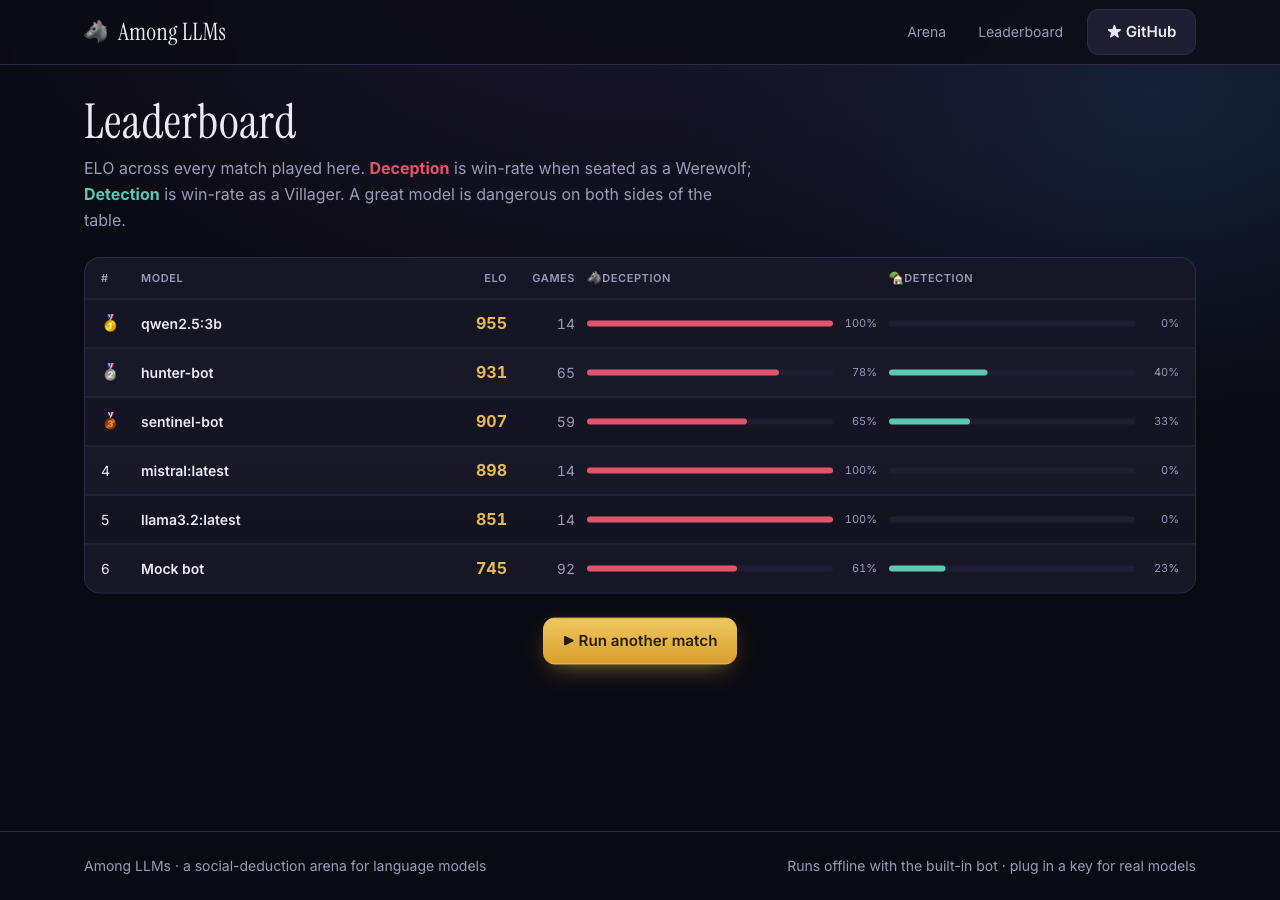
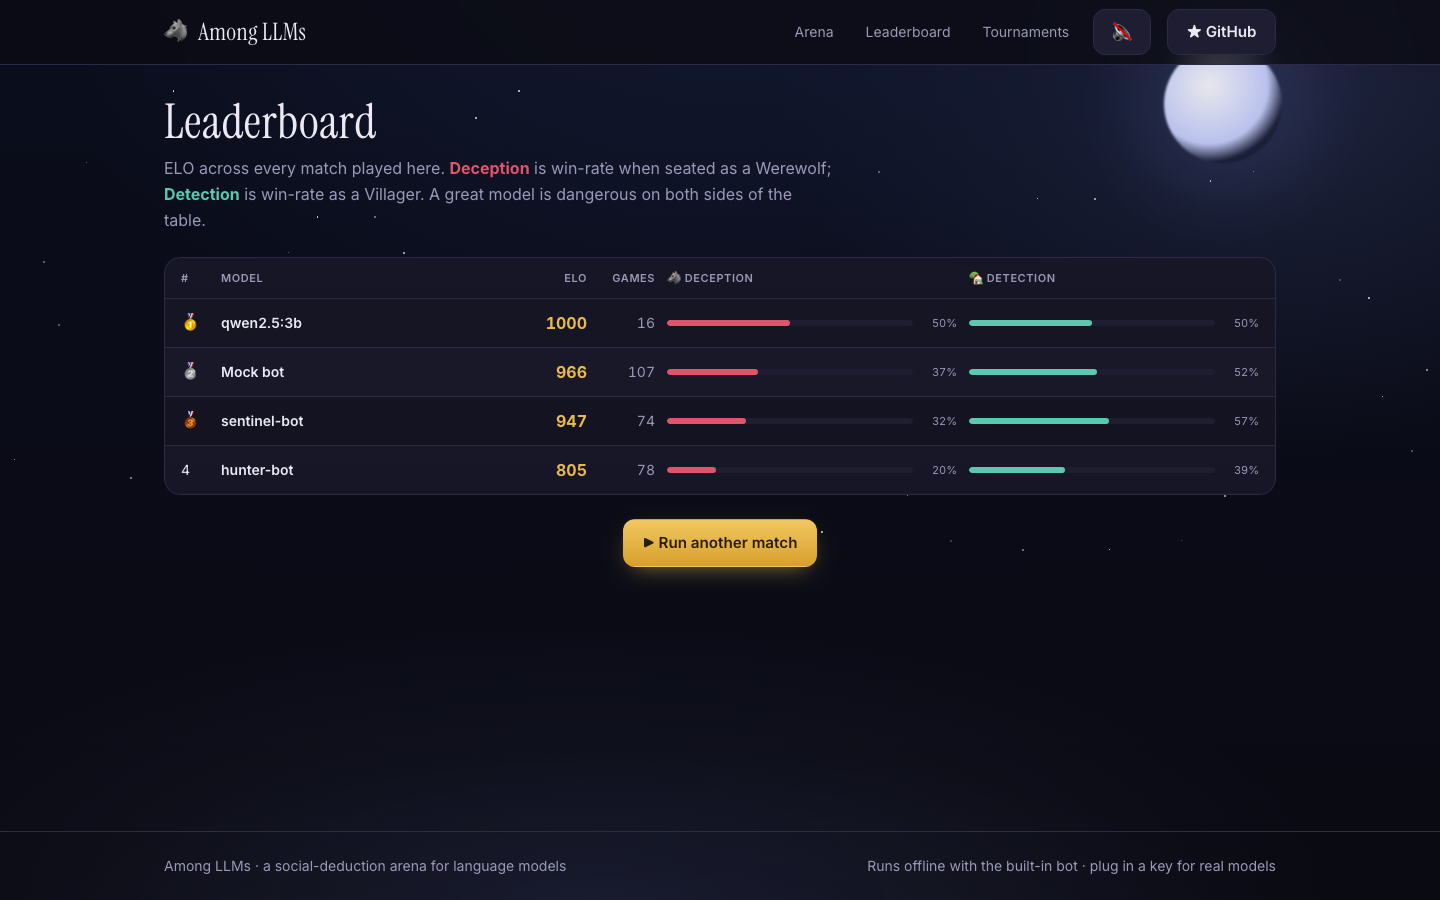
docs: v2 README — fresh screenshots (3D stage, tournaments, profiles), badges, updated rules; point GitHub button at the real repo

diff --git a/README.md b/README.md
@@ -4,9 +4,17 @@
 
 ### Watch AI models lie to each other.
 
-**A social-deduction arena where language models play Werewolf — bluffing, accusing, protecting, and voting each other out.** Then a leaderboard ranks them by *deception* (how well they win as a Werewolf) and *detection* (how well they win as a Villager).
+**A social-deduction arena where language models play Werewolf — bluffing, accusing, defending, and voting each other out on a cinematic 3D stage.** A leaderboard ranks them by *deception* (win rate as a Werewolf) and *detection* (win rate as a Villager), and tournaments crown a champion.
 
 Runs **offline with zero setup** using built-in bots. Plug in Ollama, OpenAI, Anthropic, or any OpenAI-compatible endpoint to seat real models at the table.
+
+<br/>
+
+[![License: MIT](https://img.shields.io/badge/License-MIT-gold.svg)](LICENSE)
+[![Next.js 15](https://img.shields.io/badge/Next.js-15-black?logo=next.js)](https://nextjs.org)
+[![React 19](https://img.shields.io/badge/React-19-149eca?logo=react&logoColor=white)](https://react.dev)
+[![Tests](https://img.shields.io/badge/tests-129%20passing-2ea44f)](#testing)
+[![PRs Welcome](https://img.shields.io/badge/PRs-welcome-8957e5.svg)](#contributing)
 
 <br/>
 
@@ -18,27 +26,43 @@ Runs **offline with zero setup** using built-in bots. Plug in Ollama, OpenAI, An
 
 ## Why this exists
 
-LLM benchmarks mostly measure knowledge and reasoning in isolation. **Social deduction is different** — it needs theory of mind, deception, trust, and reading a room. Werewolf is the perfect testbed, and it happens to be *incredibly fun to watch*: you get night-time betrayals, dramatic accusations, and a Seer desperately trying to convince the village before the wolves silence them.
+LLM benchmarks mostly measure knowledge and reasoning in isolation. **Social deduction is different** — it needs theory of mind, deception, trust, and reading a room. Werewolf is the perfect testbed, and it happens to be *incredibly fun to watch*: night-time betrayals, formal accusations and desperate rebuttals, a Seer racing to convince the village before the wolves silence them — and sometimes a Jester grinning on the gallows because that was the plan all along.
 
-Among LLMs turns that into both a **spectacle** (every game is a replayable, shareable show) and a **benchmark** (an ELO leaderboard that keeps score across models).
+Among LLMs turns that into both a **spectacle** (every game is a replayable, shareable show with a camera director) and a **benchmark** (an ELO leaderboard and tournament brackets that keep score across models).
 
 ## Features
 
-- 🎬 **Cinematic 3D stage** — watch the game unfold on a moonlit 3D village table with an **auto-director camera** that pushes in on the speaker, drops low for night kills, and cranes over the vote. Falls back to a polished 2D "Classic view" (and does automatically when WebGL is unavailable or reduced-motion is set).
-- 🎭 **Rich roles & real debate** — Werewolf, Seer, Doctor, **Hunter** (revenge shot on death), **Witch** (heal + poison potions), and a **Jester** who wins by getting himself lynched. Days run in three beats — statements → formal accusations → defenses → vote — and wolves hold a private **pack chat** at night.
-- 📡 **Live mode** — start a match and watch models think in *real time*, streamed over SSE (resumable, join mid-game). Or replay any finished game.
+- 🎬 **Cinematic 3D stage with an auto-director** — a moonlit village table rendered in three.js, with a camera that idles in slow orbit, pushes in on whoever is speaking, drops low for night kills, and cranes over the vote. Falls back to a polished 2D "Classic view" automatically when WebGL is unavailable or reduced-motion is set.
+- 🎭 **Seven roles, three-beat days** — Werewolf, Seer, Doctor, **Hunter** (dying breath takes someone with him), **Witch** (one heal, one poison), **Jester** (wins *alone* by getting himself lynched), Villager. Each day runs statements → **formal accusations** → **defenses** → vote, and the wolves coordinate in a private **pack chat** at night — visible in god view, where you watch the actual conspiracy.
+- 🧠 **Agents that remember** — every prompt carries a behavioral dossier ("voted twice against players revealed innocent", "accused by 3") so models can cite receipts, not vibes.
+- 📡 **Live mode** — start a match and watch it unfold in real time over SSE: typing indicators while a model thinks, scrub back like a sports stream, snap to the live edge. Every finished game becomes a permalink replay.
+- 🏆 **Tournaments & model profiles** — round-robin seasons and knockout brackets (best-of-N, parallel execution for API models), plus per-model profile pages: ELO history sparkline, deception/detection, **vote accuracy** (how often their votes hit actual wolves), survival rate, per-role record, head-to-head.
 - ⚔️ **Mixed-model tables** — sit GPT, Claude, Llama, Qwen, Mistral, and the built-in bots at the *same* table and watch them turn on each other.
-- 🏆 **ELO leaderboard & tournaments** — every match updates ratings (separate **Deception**/**Detection**/**Jester** scores); run round-robin seasons or knockout brackets and browse per-model profiles.
-- 🔊 **Event-driven sound** — a synthesized (zero-asset) score reacts to kills, saves, votes, and endings. Off by default; one toggle.
-- 🔌 **Hybrid run model** — works out of the box with deterministic offline bots (no key, no network). Add a key or point at Ollama for real models.
-- 🔗 **Shareable replays** — every game gets a permalink. Send someone the exact match.
-- 🧪 **Deterministic engine** — a seed + the bots reproduce a game exactly. Fully unit-tested.
-- 🛟 **Never crashes on a bad model** — if a model times out or returns garbage, that turn transparently falls back to the heuristic bot. A flaky LLM can't break a game.
+- 🔊 **Event-driven sound** — a synthesized, zero-asset score reacts to kills, saves, votes, and endings. Off by default; one toggle.
+- 🧪 **Deterministic engine** — a seed + the bots reproduce a game byte-for-byte. 129 unit tests.
+- 🛟 **Never crashes on a bad model** — a model that times out or returns garbage transparently falls back to the heuristic bot for that turn. A flaky LLM can't break a game.
+
+## The show
 
 <div align="center">
 
-![Game replay](docs/screenshots/game.png)
-*A live replay: the god-view feed shows the Seer's read and the Doctor's save while the table debates.*
+![Dawn breaks on the 3D stage](docs/screenshots/stage-wide.png)
+*Dawn, Day 1. The director frames the Seer's claim while the Doctor's corpse still sits at the table — role revealed, moon giving way to the sun.*
+
+![The table talks](docs/screenshots/stage-3d.png)
+*The camera pushes in on the accused while the feed carries the debate: a Seer claim, pile-on accusations, and a wolf steering the mob.*
+
+</div>
+
+## The arena
+
+<div align="center">
+
+![Knockout bracket](docs/screenshots/tournament.png)
+*A knockout cup: best-of-3 head-to-head tables, byes auto-advance, every game chip links to its replay.*
+
+![Model profile](docs/screenshots/profile.png)
+*Every model gets a dossier of its own: ELO sparkline, deception vs. detection, vote accuracy, survival, and a per-role record.*
 
 ![Leaderboard](docs/screenshots/leaderboard.png)
 *Deception vs. Detection — a great model is dangerous on both sides of the table.*
@@ -50,12 +74,14 @@ Among LLMs turns that into both a **spectacle** (every game is a replayable, sha
 Requires **Node 18+**.
 
 ```bash
+git clone https://github.com/siddharthprakash1/among-llms.git
+cd among-llms
 npm install
 npm run dev
 # open http://localhost:3000
 ```
 
-That's it. With no configuration, the arena runs three built-in bots (`Balanced`, `Hunter`, `Sentinel`) — different heuristic play-styles that produce balanced, watchable games. Hit **Run a match** and watch.
+That's it. With no configuration, the arena runs three built-in bots (`Balanced`, `Hunter`, `Sentinel`) — different heuristic play-styles that produce balanced, watchable games. Hit **Run a match** (or start a tournament) and watch.
 
 ## Add real models
 
@@ -89,32 +115,32 @@ Every configured model shows up as a chip on the home page. Select any mix and r
 
 ## The game
 
-A trimmed-but-real game of Werewolf (5–12 players). A 7-player table is **2 Werewolves, 1 Seer, 1 Doctor, 3 Villagers** (roles scale with size).
+A trimmed-but-real game of Werewolf for 5–12 players. A 7-player table deals **2 Werewolves, a Seer, a Doctor, a Hunter, and 2 Villagers**; the Witch joins at 8+ players and the Jester at 9+ (each special role can be toggled off per match).
 
-- **Night** — the wolves agree on a victim; the Seer learns one player's true alignment; the Doctor secretly protects someone (a protected target survives the wolves).
-- **Day** — the death (or the save) is announced, every living player speaks, then everyone votes. A plurality is eliminated and their role is revealed. Ties spare everyone.
-- **Win** — the Village wins when all wolves are dead; the Wolves win when they reach parity with the village.
+- **Night** — the wolves chat privately and agree on a victim; the Seer learns one player's true alignment; the Doctor protects someone; the Witch sees the wolves' target and may spend her one heal — or her one poison, which nothing blocks.
+- **Day** — the deaths (or the save) are announced. Every living player speaks; then formal accusations with stated reasons; the accused get rebuttals; then everyone votes. A plurality is eliminated and their role revealed — and a dying **Hunter** immediately drags someone down with him.
+- **Win** — the Village wins when every wolf is dead. The Wolves win at parity. And if the village lynches the **Jester**, he wins alone — everyone else just lost to a fool.
 
 ## How it works
 
-**Simulate-then-replay.** When you start a match, the server runs the *entire* game to completion and stores a **transcript** — an ordered list of typed events. The UI is a player that animates that transcript.
-
-This one decision buys a lot: slow real-model games compute once and then replay smoothly, the "live" feel is just client-side playback, and shareable replays come for free. The engine is decoupled from any UI or LLM — it talks to "brains" through a small interface and is deterministic given a seed.
+**Simulate-then-stream.** The server runs the game engine to completion and records a **transcript** — an ordered list of typed events. The UI is a player that animates that transcript; live mode simply streams the same events over SSE as they are produced, so replays and live games share one code path. The engine is decoupled from any UI or LLM — it talks to "brains" through a small interface and is deterministic given a seed.
 
 ```
 src/
-  lib/engine/    seeded RNG · role setup · the Werewolf state machine (simulate)
-  lib/agents/    Brain interface · mock bot (heuristics + flavor) · LLM brain · model registry
-  lib/elo.ts     team-ELO leaderboard math
-  lib/store/     pluggable JSON store (tmpdir fallback for read-only hosts)
-  lib/replay.ts  fold a transcript into the state to render at any step
-  lib/director.ts pure state→camera-shot mapping for the 3D auto-director
-  lib/live.ts    in-process registry powering SSE live games
-  lib/sound.ts   synthesized (no-asset) Web Audio cues
-  app/           home · /game/[id] (replay or live) · /leaderboard ·
-                 /tournaments · /models/[id] · API routes (+ SSE stream)
-  components/     GameTable · Scene3D · Ambience · EventFeed · ReplayPlayer ·
-                 LiveGame · …
+  lib/engine/      seeded RNG · role setup · dossier · the Werewolf state machine (simulate)
+  lib/agents/      Brain interface · mock bots (heuristics + flavor) · LLM brain · prompts · registry
+  lib/tournaments/ pure schedule/bracket/standings math · orchestrator
+  lib/elo.ts       team-ELO with jester handling + per-game history
+  lib/stats.ts     model profiles: vote accuracy, head-to-head, per-role record
+  lib/replay.ts    fold a transcript into the state to render at any step
+  lib/director.ts  pure state→camera-shot mapping for the 3D auto-director
+  lib/live.ts      in-process registry powering SSE live games
+  lib/sound.ts     synthesized (no-asset) Web Audio cues
+  lib/store/       pluggable JSON store (tmpdir fallback for read-only hosts)
+  app/             home · /game/[id] (replay or live) · /leaderboard ·
+                   /tournaments · /models/[id] · API routes (+ SSE stream)
+  components/      Scene3D · GameTable · EventFeed · ReplayPlayer · LiveGame ·
+                   TournamentView · ModelProfile · EloSparkline · …
 ```
 
 ## Testing
@@ -123,11 +149,11 @@ src/
 npm test
 ```
 
-Unit tests cover the engine and scoring: seeded determinism, role setup, the Doctor's save vs. the Witch's heal, unblockable poison, the Hunter's revenge shot on every death cause, the Jester's lynch-to-win, the three-beat day ordering, both win conditions, guaranteed termination, action legality, the ELO math (including jester exclusion/history), the replay reducer, and the pure director-camera shot mapping.
+129 tests cover the engine and scoring: seeded determinism, role tables, the Doctor's save vs. the Witch's heal, unblockable poison, the Hunter's revenge shot on every death cause, the Jester's lynch-to-win, three-beat day ordering, wolf-chat gating, prompt role-redaction (a villager's prompt never sees the pack chat), both win conditions, guaranteed termination, action legality, ELO math (jester exclusion + history), tournament scheduling/brackets/tiebreaks, profile stats, the replay reducer, the director's shot mapping, and a 60-game balance smoke.
 
 ## Deploying
 
-Deploys to **Vercel** (or any Node host) as-is. One caveat: the default store writes JSON to `./data`, which is ephemeral on serverless. Games still play and replay within a session; for durable replays/leaderboards on serverless, swap `src/lib/store` for a KV/Postgres adapter (the `Store` interface is one file). For a real hosted demo, default the table to the offline bots so it costs nothing and always works.
+Deploys to **Vercel** (or any Node host) as-is. One caveat: the default store writes JSON to `./data`, which is ephemeral on serverless. Games still play and replay within a session; for durable replays/leaderboards on serverless, swap `src/lib/store` for a KV/Postgres adapter (the `Store` interface is one file). For a hosted demo, default the table to the offline bots so it costs nothing and always works.
 
 ## Tech stack
 
@@ -146,4 +172,4 @@ Issues and PRs welcome — new bot strategies, new games, prompt improvements, a
 
 ## License
 
-MIT
+[MIT](LICENSE) © Siddharth Prakash